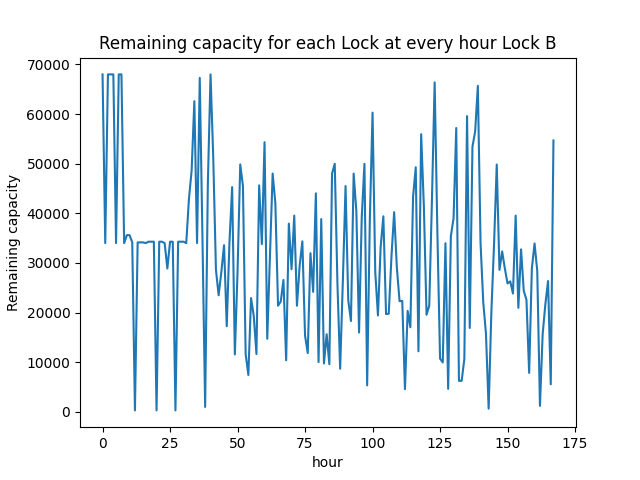
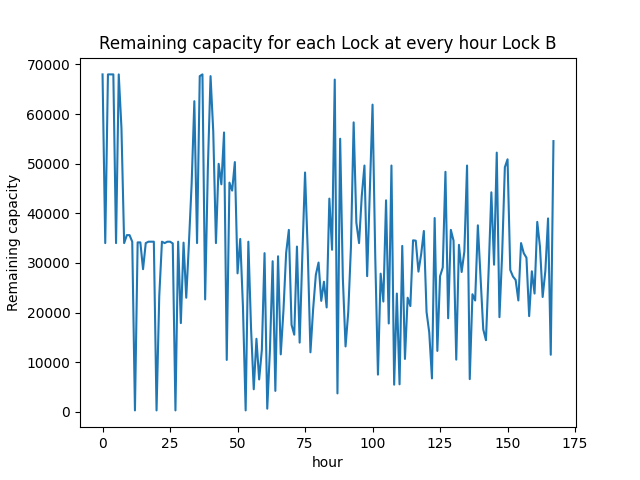
cleanup code lock

diff --git a/model/atomic_devs/lock.py b/model/atomic_devs/lock.py
@@ -111,10 +111,13 @@ class Lock(AtomicDEVS):
         else:
             # if the gate closes:
             if self.state.gate_sea == 1 or self.state.gate_dock == 1:
+                # reset how many ships can be in the lock
                 self.state.max_ship_in_lock = (self.state.time_open/(START_DELAY*HOUR_TO_SECOND))-1
+                # update the remaining capacity this hour
                 if self.state.hourly_remainig_cappacity == -1:
                     self.state.hourly_remainig_cappacity =0
                 self.state.hourly_remainig_cappacity += self.state.remaining_capacity
+                # empty itteration
                 if len(self.state.in_lock)==0:
                     # analytic 6
                     self.state.empty_itteration += 1
@@ -123,6 +126,7 @@ class Lock(AtomicDEVS):
                 self.state.gate_dock = 0
                 # set the remaining time to the duration of the shift
                 self.state.remaining_time = self.state.duration
+
             # if the gate opens
             else:
                 #  if the waterlevel changes to HIGH
@@ -137,6 +141,7 @@ class Lock(AtomicDEVS):
                     # reset capacity
                     self.state.remaining_capacity = self.state.surface_area
 
+                    # go ship by ship and add the mto the lock if there is capacity
                     for vessel in self.state.waiting_queue_sea[::1].copy():
                         if self.state.remaining_capacity >= vessel.surface_area:
                             if self.state.max_ship_in_lock > 0:
@@ -156,8 +161,6 @@ class Lock(AtomicDEVS):
                     # no ships need to leave
                     else:
                         self.state.remaining_time = self.state.time_open
-
-
                 #  if the waterlevel changes to LOW
                 else:
                     # adjust the waterlevel and open gate
@@ -169,6 +172,7 @@ class Lock(AtomicDEVS):
 
                     # reset capacity
                     self.state.remaining_capacity = self.state.surface_area
+                    # go ship by ship and add the mto the lock if there is capacity
                     for vessel in self.state.waiting_queue_dock[::1].copy():
                         if self.state.remaining_capacity >= vessel.surface_area:
 
@@ -183,58 +187,39 @@ class Lock(AtomicDEVS):
                     if len(self.state.leaving) > 0:
                         self.state.left = self.state.leaving.pop(0)
                         self.state.remaining_time = START_DELAY * HOUR_TO_SECOND
-                        if self.state.remaining_time < 0 or self.state.hour_remaining < 0:
-                            print("aaaaaaaaaaaaaaaaaaaaaaaaaaaaaaaaaaaaa")
                         self.state.time_open_used = self.state.time_open
-
-                        if self.state.time_open_used < 0 and self.state.time_open_used != -1:
-                            print("bbbbbbbbbbbbbbbbbbbbbbbbbbbbbbbbbbbbbbbbbbbbbb")
                         self.state.leaving_bool = True
                     # no ships need to leave
                     else:
                         self.state.remaining_time = self.state.time_open
-                        if self.state.remaining_time < 0 or self.state.hour_remaining < 0:
-                            print("aaaaaaaaaaaaaaaaaaaaaaaaaaaaaaaaaaaaa")
 
 
         return self.state
 
     def extTransition(self, inputs):
+        # update time
         if self.state.time_open_used != -1:
             self.state.time_open_used -= self.elapsed
-
-            if self.state.time_open_used < 0 and self.state.time_open_used != -1:
-                print("bbbbbbbbbbbbbbbbbbbbbbbbbbbbbbbbbbbbbbbbbbbbbb")
-
         self.state.current_time += self.elapsed
         self.state.remaining_time -= self.elapsed
-        if self.state.remaining_time < 0 or self.state.hour_remaining<0:
-            print("aaaaaaaaaaaaaaaaaaaaaaaaaaaaaaaaaaaaa")
 
         # ship at sea gate
         if self.in_port_sea in inputs:
             for vessel in inputs[self.in_port_sea]:
                 self.state.empty = False
-
                 # gate at sea open and there is capacity
+                appended = False
                 if self.state.water_level == 1:
                     if self.state.gate_sea == 1:
                         if self.state.remaining_capacity >= vessel.surface_area:
-
                             if self.state.max_ship_in_lock > 0:
+                                appended = True
                                 self.state.max_ship_in_lock -= 1
                                 # go in lock
                                 self.state.in_lock.append(vessel)
                                 self.state.remaining_capacity -= vessel.surface_area
-                            else:
-                                self.state.waiting_queue_sea.append(vessel)
-                        else:
-                            self.state.waiting_queue_sea.append(vessel)
-                    else:
-                        self.state.waiting_queue_sea.append(vessel)
-
-                # else wait in queue
-                else:
+                # if not wait in queue
+                if not appended:
                     self.state.waiting_queue_sea.append(vessel)
 
         if self.in_port_dock in inputs:
@@ -245,38 +230,28 @@ class Lock(AtomicDEVS):
                 self.state.empty = False
 
                 # gate at dock open and there is capacity
+                appended = False
                 if self.state.water_level == 0:
                     if self.state.gate_dock == 1:
                         if self.state.remaining_capacity >= vessel.surface_area:
                             # go in lock
 
                             if self.state.max_ship_in_lock > 0:
+                                appended =True
                                 self.state.max_ship_in_lock -= 1
                                 self.state.in_lock.append(vessel)
-
                                 self.state.remaining_capacity -= vessel.surface_area
-
-                            else:
-                                self.state.waiting_queue_dock.append(vessel)
-
-                        else:
-                            self.state.waiting_queue_dock.append(vessel)
-
-                    else:
-                        self.state.waiting_queue_dock.append(vessel)
-
                 # else wait in queue
-                else:
+                if not appended:
                     self.state.waiting_queue_dock.append(vessel)
         return self.state
 
     def timeAdvance(self):
-        self.state.hour_update = False
-
-        self.state.hour_remaining = math.floor(self.state.current_time)+1-self.state.current_time
         # return the remaining time that the lock will be open or closed or leaving of a ship
+        # when the hourly update is first wait until then
+        self.state.hour_update = False
+        self.state.hour_remaining = math.floor(self.state.current_time)+1-self.state.current_time
         if self.state.remaining_time < self.state.hour_remaining:
-
             return self.state.remaining_time
         else:
             self.state.hour_update = True
@@ -284,12 +259,13 @@ class Lock(AtomicDEVS):
 
     def outputFnc(self):
         return_dict = {}
-
-
+        # return the idle time
         if self.state.empty:
             self.state.idle_time += self.state.current_time - self.state.start_empty
             self.state.start_empty = self.state.current_time
+        # if a vessel want to leave
         if self.state.left is not None:
+            # the lock is empty when this ship leaves
             in_lock_bool = len(self.state.in_lock) == 0
             leaving_bool = len(self.state.leaving) == 0
             waiting_dock_bool = len(self.state.waiting_queue_dock) == 0
@@ -299,14 +275,14 @@ class Lock(AtomicDEVS):
                 self.state.empty = True
             vessel = self.state.left
 
-
+            # let the ship leave
             self.state.left = None
             if self.state.gate_dock == 1:
                 return_dict[self.out_port_dock] = [vessel]
             else:
                 return_dict[self.out_port_sea] = [vessel]
 
-            # Statistic ports connect
+        # Statistic ports connect
         if self.state.current_time > 0:
             return_dict[self.stat5_out] = self.state.idle_time / (self.state.current_time)
         else:
